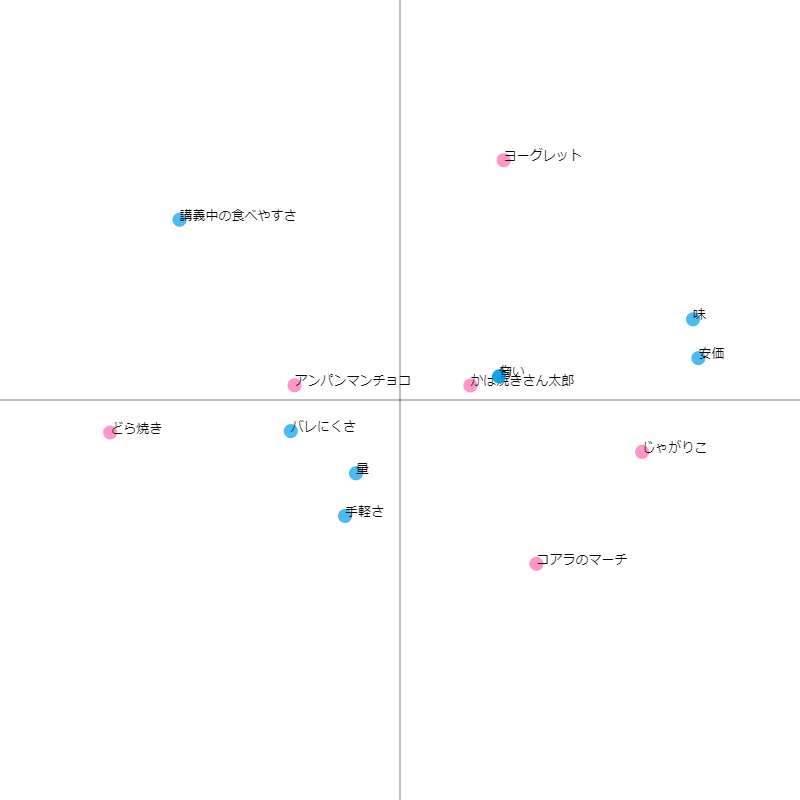
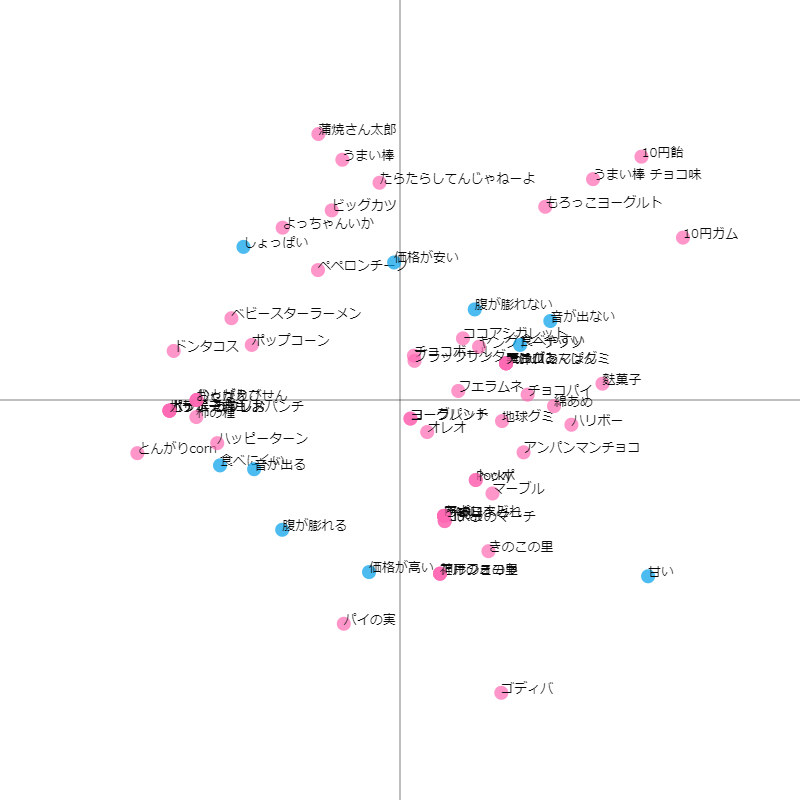
q

diff --git a/de34/5.html b/de34/5.html
@@ -3,7 +3,7 @@
 
 <head>
   <!-- ⑥↓タイトルを変えてみよう -->
-  <title>5/8 課題</title>
+  <title>5/15 課題</title>
   <!-- ⑤スタイルシートの設定をしよう -->
   <!-- h1.htmlからある行をコピペしてくればOK -->
   <link rel="stylesheet" href="./css/style.css">
@@ -12,12 +12,25 @@
 <body>
 
   <head>
-    <h1>班で制作した作品</h1>
+    <h1>コレスポンデンス分析</h1>
   </head>
 
-  <div><img src="./images/14.png" width="50%">
-    <img src="./images/15.png" width="50%">
-    <img src="./images/16.png" width="50%">
+  <div><img src="./images/14.png" width="50%"><br>
+    <a href="./files/cross.csv" target="_blank">csvファイル</a></li>
+    </div>
+<br><br>
+    <div>
+      <h2>説明</h2>
+       図からも分かる通りそれぞれのお菓子のイメージと商品名のマッチ度は高いと言える。<br>
+       特に注目してほしいのはハッピーターンで、食べにくいのは粉が出るから、音が出るのはスナック特有の<br>
+       サクサク音のイメージから来ていると予想できる。<br>
+       １０円ガムやモロッコヨーグルト、うまい棒が安い項目から離れているのは、これらの値が１なのに対して<br>
+       他のお菓子は3~の値が多いため離れすぎてしまったのだろう。<br>
+       価格が高いの項目が最も正確に反映されている良いデータになっていると思う。
+  
+
+
+
     </div>
 
 

diff --git a/de34/6.html b/de34/6.html
@@ -1,0 +1,27 @@
+<!DOCTYPE html>
+<html lang="jp">
+
+<head>
+  <!-- ⑥↓タイトルを変えてみよう -->
+  <title>5/8 課題</title>
+  <!-- ⑤スタイルシートの設定をしよう -->
+  <!-- h1.htmlからある行をコピペしてくればOK -->
+  <link rel="stylesheet" href="./css/style.css">
+</head>
+
+<body>
+
+  <head>
+    <h1>班で制作した作品</h1>
+  </head>
+
+  <div><img src="./images/14.png" width="50%">
+    <img src="./images/15.png" width="50%">
+    <img src="./images/16.png" width="50%">
+    </div>
+
+
+
+
+
+</body>

diff --git a/de34/index.html b/de34/index.html
@@ -17,7 +17,8 @@
         <li><a href="./2.html">IoTを使った新商品</a></li>
         <li><a href="./3.html">IoTのデータを使ったサービス</a></li>
         <li><a href="./4.html">LEDとモーターを使って面白いものを作る</a></li>
-        <li><a href="./5.html">IoTに関して</a></li>
+        <li><a href="./5.html">コレスポンデンス分析</h1>
+        </a></li>
         
     
     <h2>イベント参加</h2>

diff --git a/de34/4.html b/de34/4.html
@@ -3,7 +3,8 @@
 
 <head>
   <!-- ⑥↓タイトルを変えてみよう -->
-  <title>5/8 課題</title>
+  <title>5/8
+     課題</title>
   <!-- ⑤スタイルシートの設定をしよう -->
   <!-- h1.htmlからある行をコピペしてくればOK -->
   <link rel="stylesheet" href="./css/style.css">
